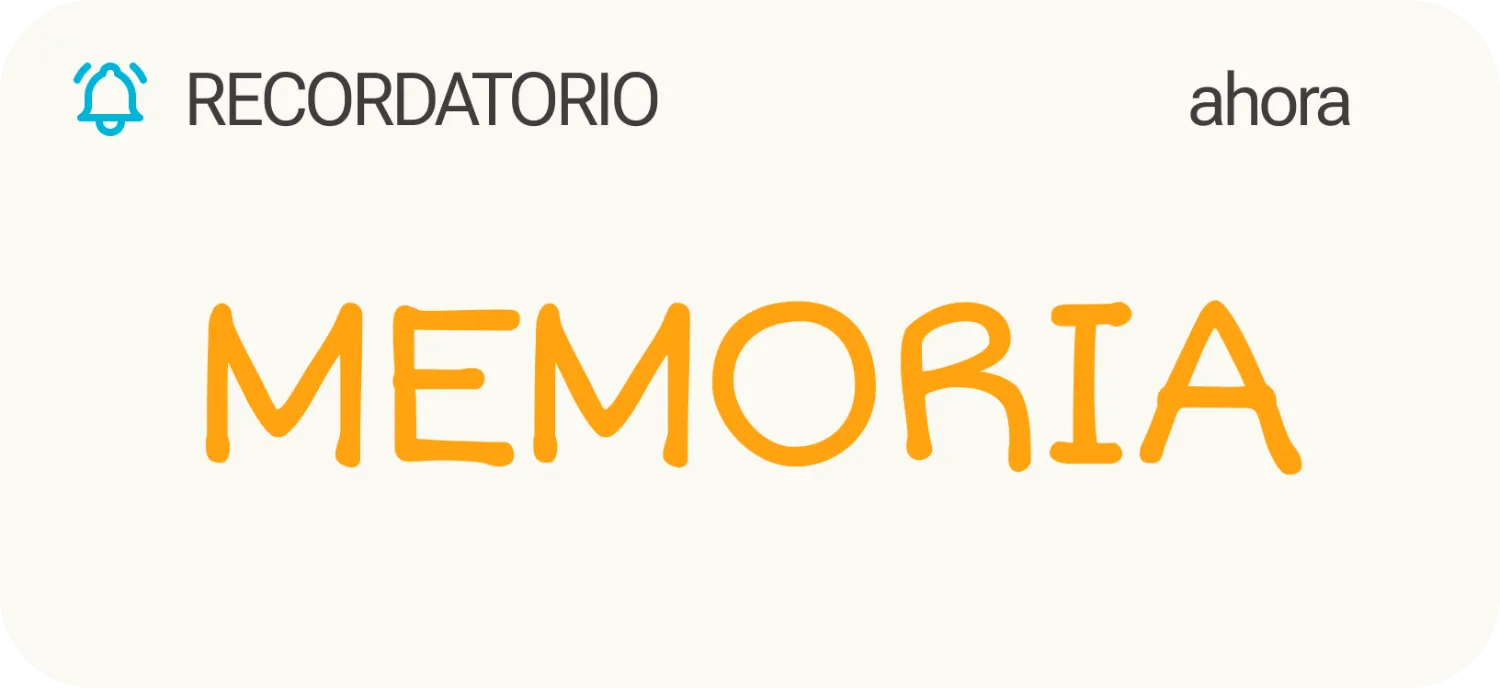
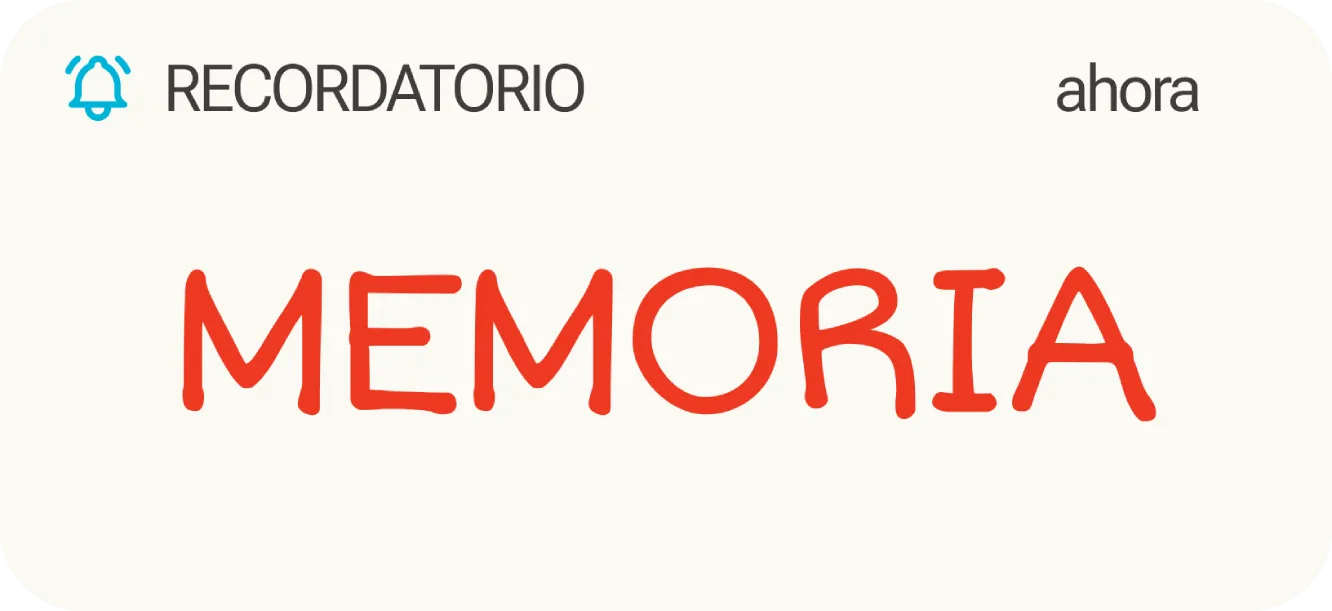
update image assets, fix validation error message, and refactor footer layout

Changed region(s): [[0.1231, 0.4354, 0.8926, 0.6841]]

diff --git a/styles.css b/styles.css
@@ -296,8 +296,6 @@ section.active{
 
 .vision-text{
     display: grid;
-    grid-template-rows: 1;
-    grid-template-columns: 2;
     gap: 1rem;
     margin: 1.5rem;
     align-items: center;
@@ -507,7 +505,7 @@ footer{
     row-gap: 0rem;
     justify-content: space-between;
     display: grid;
-    grid-template-columns: 1fr 1fr;
+    grid-template-columns: 1fr 1fr 1fr;
     grid-template-rows: 1fr;
     background-color: var(--coco);
     color: var(--black);
@@ -518,7 +516,7 @@ footer{
 footer .author{
     grid-column: 1;
     display: grid;
-    grid-template-columns: 1fr 1fr;
+    grid-template-columns: 1fr 1fr 1fr;
     width: 30%;
 }
 
@@ -537,21 +535,19 @@ footer .author h3{
 
 footer .author-desc {
     grid-row: 2;
-    grid-column: 1;
+    grid-column: 1 / 3;
     font-size: 90%;
 }
 
 .same-grid {
     grid-row: 2;
-    grid-column: 2;
+    grid-column: 3;
     display: flex;
     flex-direction: column;
 }
 
 footer .socials {
-    display: grid;
-    grid-template-columns: 1fr;
-    grid-template-rows: 1fr auto;
+    grid-column: 3;
 }
 
 footer .socials-icons {
@@ -603,21 +599,7 @@ footer .socials h3{
         background-color: var(--coco);
         width: 100%;
         text-align: center;
-        transition: 0.3s
-    }
-
-    .nav-links {
-        display: flex;
-        flex-direction: column;
-        position: fixed;
-        top: var(--nav-h);
-        left: -200%;
-        width: 100%;
-        background-color: var(--coco);
-        padding: 1rem;
-        gap: 0;
-        text-align: center;
-        transition: 0.3
+        transition: left 0.3s ease;
     }
 
     .nav-item{
@@ -766,19 +748,6 @@ footer .socials h3{
         gap: 1rem;
     }
 
-    #Problema h2{
-        width: fit-content;
-        height: fit-content;
-        margin:0 auto;
-        padding: 10px;
-        font-family: var(--font-heading);
-        color: var(--black);
-        background-color: var(--naranja);
-        border-radius: 25px;
-        text-align: center;
-        font-size: 100%;
-    }
-
     #Problema p{
         text-align: center;
         font-size: 125%;
@@ -811,13 +780,6 @@ footer .socials h3{
         grid-row: 6 / 8;
         grid-column: 6 / 9;
         transform: rotate(5deg) translateY(4%);
-    }
-
-    .problema-galeria img{
-        max-width: 100%;
-        object-fit: cover;
-        justify-content: center;
-        align-items: center;
     }
 
     /* Visión Media */
@@ -888,7 +850,6 @@ footer .socials h3{
         grid-row: 2 / 2;
         grid-column: 4 / 7;
         display: flex;
-        justify-content: bottom;
         align-items: center;
         width: fit-content;
         height: fit-content;
@@ -1001,20 +962,6 @@ footer .socials h3{
         font-size: 100%;
     }
 
-    form input[type="text"], form input[type="email"]{
-        border: none;
-        width: 100%;
-        border-bottom: 2px solid var(--black);
-        outline: none;
-        height: 40px;
-        font-family: var(--font-text);
-    }
-
-    form input[type="text"]:focus, form input[type="email"]:focus{
-        border-bottom: 2px solid var(--naranja);
-        transition: border-bottom 0.3s ease-in;
-    }
-
     form button{
         border: none;
         outline: none;
@@ -1031,7 +978,6 @@ footer .socials h3{
 
     footer{
         display: flex;
-        align-items: relative;
         max-width: 100%;
         height: auto;
         gap: 1rem;

diff --git a/script.js b/script.js
@@ -28,7 +28,7 @@ function setupFormValidation() {
     function validateName() {
 
         if(!nameField.value.match(/^[A-Za-z]{2}/)){
-            nameError.innerHTML = "Mínimo 2 carácteres.";
+            nameError.innerHTML = "Mínimo 2 caracteres.";
             return false;
         }
 
